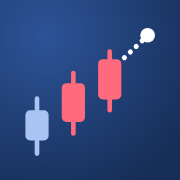
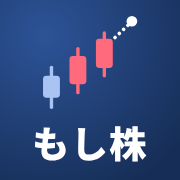
アプリ名を「もし株」にして、アイコンに文字を入れる
Claude-Session: https://claude.ai/code/session_016TSRaoungbHd4U7EAwto9v

Changed region(s): [[0.1389, 0.25, 0.5833, 0.9167], [0.5278, 0.0833, 0.8611, 0.6389], [0.6111, 0.6944, 0.8333, 0.9167]]

diff --git a/index.html b/index.html
@@ -7,11 +7,11 @@
 <meta name="theme-color" content="#0f141b" media="(prefers-color-scheme: dark)">
 <meta name="apple-mobile-web-app-capable" content="yes">
 <meta name="apple-mobile-web-app-status-bar-style" content="default">
-<meta name="apple-mobile-web-app-title" content="if-kabu">
+<meta name="apple-mobile-web-app-title" content="もし株">
 <link rel="icon" href="icons/icon.svg" type="image/svg+xml">
 <link rel="apple-touch-icon" href="icons/apple-touch-icon.png">
 <link rel="manifest" href="manifest.webmanifest">
-<title>if-kabu</title>
+<title>もし株</title>
 <link rel="preconnect" href="https://fonts.googleapis.com">
 <link rel="preconnect" href="https://fonts.gstatic.com" crossorigin>
 <link href="https://fonts.googleapis.com/css2?family=IBM+Plex+Sans+JP:wght@400;500;700&display=swap" rel="stylesheet">
@@ -393,7 +393,7 @@ function tabbar() {
 /* ---------- 口座開設 ---------- */
 function setupHTML() {
   return `<div class="setup">
-    <div class="logo">${ICON.logo}if-kabu</div>
+    <div class="logo">${ICON.logo}もし株</div>
     <h1>練習用の口座をつくる</h1>
     <p>本物の株価（日足）を使って、仮想のお金で株の売買を練習します。はじめに口座へ入れる金額を決めてください。</p>
     <label class="field-l" for="amt">はじめの資金</label>

diff --git a/README.md b/README.md
@@ -1,4 +1,4 @@
-# if-kabu 株トレード練習帳
+# もし株（if-kabu）株トレード練習
 
 実際の日本株の日足データを使って、仮想の資金で売買を練習する Web アプリです。実際の注文は一切出ません。
 
